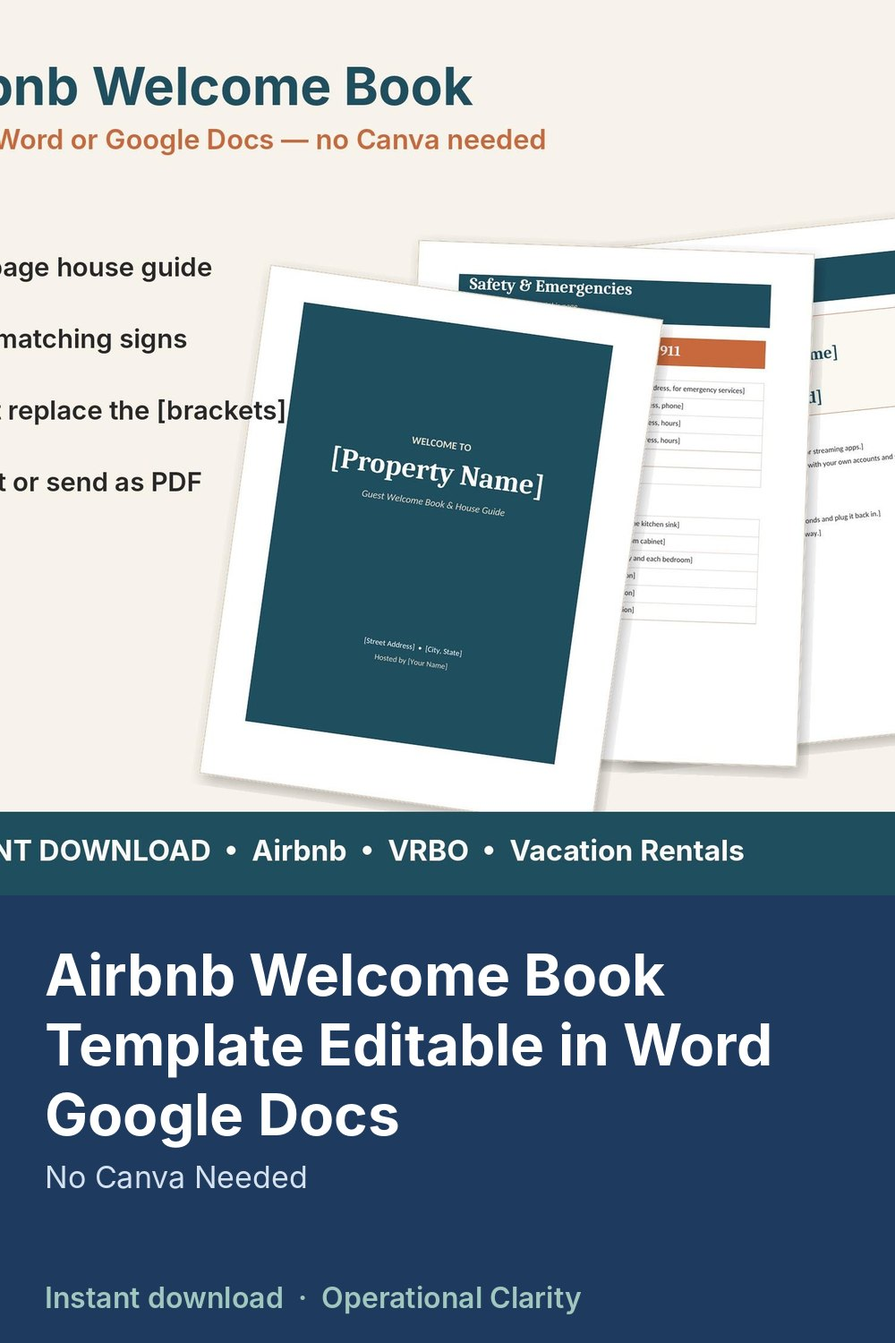
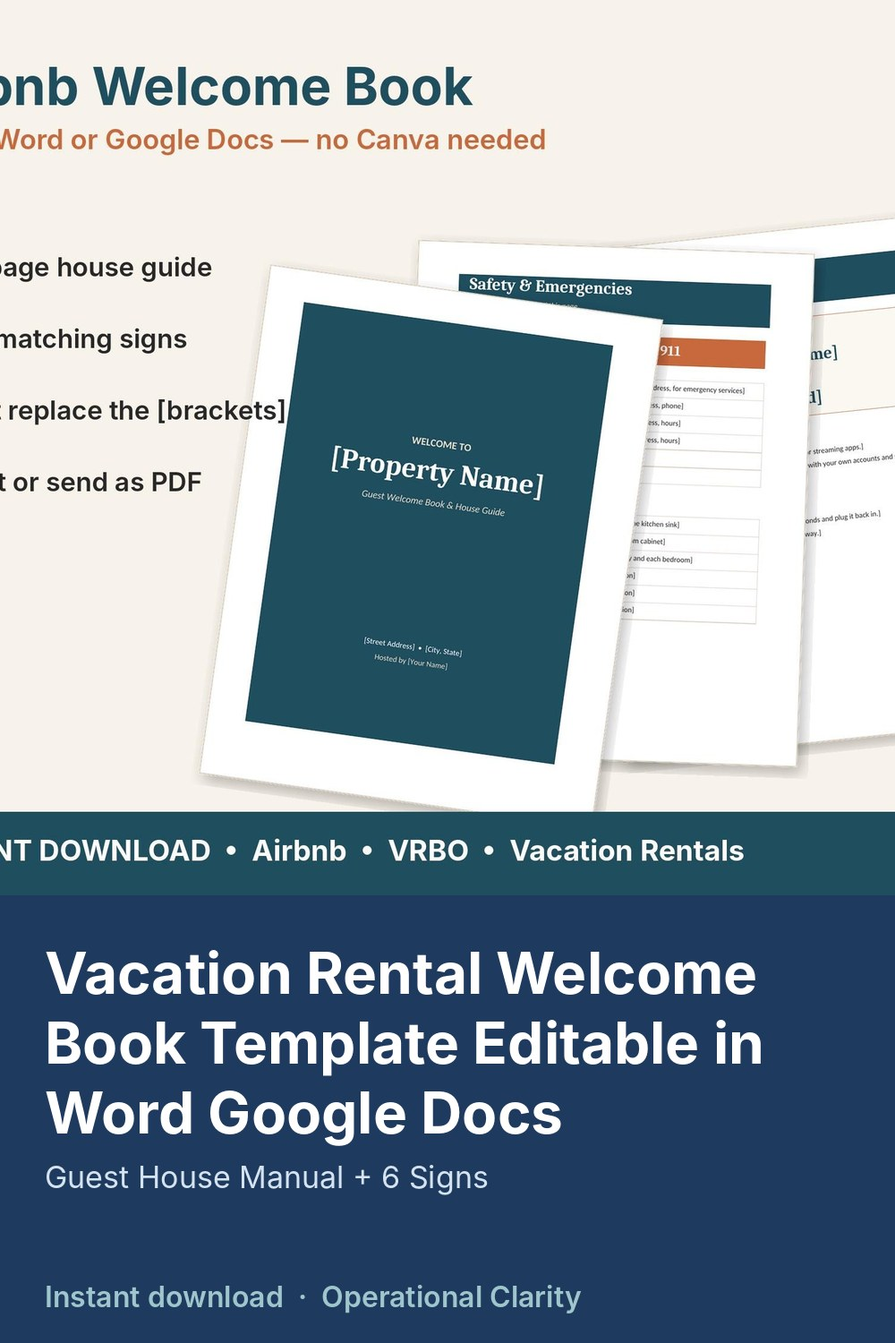
OPTIMIZE 11/10: trademark cleanup, re-render pin for retitled 4594598019 (Vacation Rental Welcome Book); refresh feed
Claude-Session: https://claude.ai/code/session_01DNMp1qHdJLzhWbKsZHTYBr

diff --git a/index.html b/index.html
@@ -7,6 +7,6 @@
 <div class="card"><h2><a href="recipe-cost-calculator.html">Recipe Cost Calculator</a></h2><p>Cost per batch, cost per serving and a suggested price for baked goods.</p></div>
 <div class="card"><h2><a href="paycheck-budget-calculator.html">Paycheck Budget Calculator</a></h2><p>Split bills across paychecks and see what is left from each one.</p></div>
 <div class="card"><h2><a href="landed-cost-calculator.html">Landed Cost Calculator</a></h2><p>True cost per unit after freight, duty and fees.</p></div>
-<h2 id="templates">Spreadsheet & Document Templates</h2><ul><li><a href="p/4595349035.html">2027 Planner Digital &amp; Printable</a></li><li><a href="p/4594598019.html">Airbnb Welcome Book Template Editable in Word Google Docs</a></li><li><a href="p/4602024296.html">Babysitting Forms Kit</a></li><li><a href="p/4553654453.html">Bakery Business Bundle</a></li><li><a href="p/4596837173.html">Bookkeeping Spreadsheet Small Business</a></li><li><a href="p/4608973473.html">Brow Lamination Forms Kit</a></li><li><a href="p/4554866019.html">Business Budget Spreadsheet</a></li><li><a href="p/4600601073.html">Candle Making Log Spreadsheet + Fragrance Load Calculator</a></li><li><a href="p/4601355308.html">Catering Contract Template Kit</a></li><li><a href="p/4607543295.html">Cleaning Business Forms Kit</a></li><li><a href="p/4598967865.html">Coffee Shop Business Plan Template + Startup &amp; Profit Planner Spreadsheet</a></li><li><a href="p/4602477706.html">Consignment Tracker Spreadsheet + Consignment Agreement</a></li><li><a href="p/4600607420.html">Consulting Contract Template + Statement of Work &amp; Proposal</a></li><li><a href="p/4554878636.html">Contract Tracker Spreadsheet</a></li><li><a href="p/4597002015.html">Cookie Pricing Calculator</a></li><li><a href="p/4601198780.html">Dance Studio Forms Kit</a></li><li><a href="p/4601100164.html">Daycare Menu Planner Spreadsheet + Weekly Menu Template</a></li><li><a href="p/4610492983.html">Dog Grooming Forms Kit</a></li><li><a href="p/4598811066.html">Embroidery Pricing Calculator Spreadsheet</a></li><li><a href="p/4594516468.html">Employee Schedule Template Excel Google Sheets</a></li><li><a href="p/4607276707.html">Esthetician Forms Kit</a></li><li><a href="p/4599677766.html">Event Planner Contract Template + Client Questionnaire &amp; Budget Tracker</a></li><li><a href="p/4599435344.html">Florist Order Form Template + Wedding Consultation Form &amp; Flower Pricing Calculator</a></li><li><a href="p/4602913827.html">Food Cost Bundle</a></li><li><a href="p/4597499808.html">Food Truck Business Plan Template + Startup &amp; Profit Planner Spreadsheet</a></li><li><a href="p/4602392090.html">Freelance Writer Contract Template Kit</a></li><li><a href="p/4601783746.html">Graphic Design Contract Template Kit</a></li><li><a href="p/4611234615.html">Hair Extension Forms Kit</a></li><li><a href="p/4597022350.html">Home Daycare Starter Kit</a></li><li><a href="p/4601273740.html">Horse Boarding Contract Kit</a></li><li><a href="p/4552565761.html">Ingredient Cost Comparison Sheet</a></li><li><a href="p/4614068822.html">Interior Design Contract Kit</a></li><li><a href="p/4552578072.html">Inventory Count Sheet</a></li><li><a href="p/4554865995.html">Inventory Loss Tracker</a></li><li><a href="p/4553664350.html">Inventory Management Bundle</a></li><li><a href="p/4443844823.html">Inventory Tracker Spreadsheet with Reorder Alerts</a></li><li><a href="p/4602913735.html">Inventory and Ordering Bundle</a></li><li><a href="p/4554878596.html">Landed Cost Calculator Spreadsheet</a></li><li><a href="p/4602544610.html">Landscaping Contract Template Kit</a></li><li><a href="p/4606330823.html">Lash Tech Forms Kit</a></li><li><a href="p/4608245532.html">Makeup Artist Contract Kit</a></li><li><a href="p/4598084241.html">Massage Intake Form Template + SOAP Notes &amp; Client Tracker Spreadsheet</a></li><li><a href="p/4611943162.html">Microblading Consent Form Kit</a></li><li><a href="p/4601646939.html">Mobile Bartending Contract Template Kit</a></li><li><a href="p/4558377143.html">Monthly Profit and Loss Dashboard Template</a></li><li><a href="p/4554866001.html">Multi Location Inventory Tracker</a></li><li><a href="p/4602844224.html">Nail Tech Forms Kit</a></li><li><a href="p/4601947594.html">Nanny Contract Template Kit</a></li><li><a href="p/4598251079.html">Notary Log Printable, Notary Journal 150 Entries, Notary Record Book + Business Kit, Fee Sheet, Loan Signing Checklist &amp; Mileage Tracker</a></li><li><a href="p/4594847811.html">Paycheck Budget Planner Spreadsheet</a></li><li><a href="p/4599761870.html">Personal Trainer Forms + Client Tracker</a></li><li><a href="p/4598178519.html">Pet Sitting Contract Template + Pet Care Sheet &amp; Booking Invoice Tracker</a></li><li><a href="p/4612559974.html">Photo Booth Contract Kit</a></li><li><a href="p/4597992636.html">Photography Client Questionnaire Templates + Pricing Calculator &amp; Booking Tracker</a></li><li><a href="p/4599831777.html">Piano Lesson Tracker + Practice Assignment Sheet &amp; Studio Policy</a></li><li><a href="p/4594208500.html">Print on Demand Profit Tracker Spreadsheet</a></li><li><a href="p/4554878680.html">Product Cost Calculator</a></li><li><a href="p/4603480063.html">Purchase Order + Inventory Dashboard</a></li><li><a href="p/4552565751.html">Purchase Order Approval Tracker</a></li><li><a href="p/4430807339.html">Purchase Order Tracker Spreadsheet &amp; Receiving Log</a></li><li><a href="p/4552578064.html">Purchasing SOP Templates</a></li><li><a href="p/4553664356.html">Purchasing Templates Bundle</a></li><li><a href="p/4554878614.html">Quote Comparison Spreadsheet</a></li><li><a href="p/4562652240.html">Recipe Cost Calculator Google Sheets Excel</a></li><li><a href="p/4552578048.html">Reorder Point Calculator</a></li><li><a href="p/4600974020.html">Restaurant Inventory Sheet + Food Cost Calculator</a></li><li><a href="p/4604903580.html">Restaurant Purchasing Bundle</a></li><li><a href="p/4604185746.html">Retail Shop Bundle</a></li><li><a href="p/4554878660.html">Returns Tracker Spreadsheet</a></li><li><a href="p/4554878628.html">Sales Forecast Spreadsheet</a></li><li><a href="p/4597001937.html">Salon Booth Rental Agreement Template</a></li><li><a href="p/4561265217.html">Simple Inventory Tracker Spreadsheet</a></li><li><a href="p/4605653122.html">Small Business Bookkeeping Dashboard</a></li><li><a href="p/4553654601.html">Small Business Operations Bundle</a></li><li><a href="p/4598888813.html">Soap Making Log Spreadsheet + Cost per Bar Calculator</a></li><li><a href="p/4598679324.html">Social Media Manager Contract Template + Client Onboarding &amp; Pricing Calculator</a></li><li><a href="p/4609739239.html">Spray Tan Forms Kit</a></li><li><a href="p/4552578060.html">Supplier Price Tracker</a></li><li><a href="p/4552578052.html">Supplier Tracker Spreadsheet</a></li><li><a href="p/4602618784.html">Tattoo Consent Form Kit</a></li><li><a href="p/4596131544.html">Tax Deduction Tracker Spreadsheet</a></li><li><a href="p/4601852361.html">Tutoring Contract Template Kit</a></li><li><a href="p/4552565827.html">Vendor Onboarding Checklist</a></li><li><a href="p/4599059861.html">Virtual Assistant Contract Template + Client Onboarding &amp; Retainer Time Tracker</a></li><li><a href="p/4554865969.html">Warehouse Spreadsheet</a></li><li><a href="p/4602285754.html">Web Design Contract Template Kit</a></li><li><a href="p/4598332795.html">Wholesale Order Form Template, Editable Wholesale Price List &amp; Order Tracker Spreadsheet, Wholesale Terms, Buyer Application, Excel Word</a></li><li><a href="p/4561283977.html">Wholesale Price List Template Excel Google Sheets</a></li></ul>
+<h2 id="templates">Spreadsheet & Document Templates</h2><ul><li><a href="p/4595349035.html">2027 Planner Digital &amp; Printable</a></li><li><a href="p/4602024296.html">Babysitting Forms Kit</a></li><li><a href="p/4553654453.html">Bakery Business Bundle</a></li><li><a href="p/4596837173.html">Bookkeeping Spreadsheet Small Business</a></li><li><a href="p/4608973473.html">Brow Lamination Forms Kit</a></li><li><a href="p/4554866019.html">Business Budget Spreadsheet</a></li><li><a href="p/4600601073.html">Candle Making Log Spreadsheet + Fragrance Load Calculator</a></li><li><a href="p/4601355308.html">Catering Contract Template Kit</a></li><li><a href="p/4607543295.html">Cleaning Business Forms Kit</a></li><li><a href="p/4598967865.html">Coffee Shop Business Plan Template + Startup &amp; Profit Planner Spreadsheet</a></li><li><a href="p/4602477706.html">Consignment Tracker Spreadsheet + Consignment Agreement</a></li><li><a href="p/4600607420.html">Consulting Contract Template + Statement of Work &amp; Proposal</a></li><li><a href="p/4554878636.html">Contract Tracker Spreadsheet</a></li><li><a href="p/4597002015.html">Cookie Pricing Calculator</a></li><li><a href="p/4601198780.html">Dance Studio Forms Kit</a></li><li><a href="p/4601100164.html">Daycare Menu Planner Spreadsheet + Weekly Menu Template</a></li><li><a href="p/4610492983.html">Dog Grooming Forms Kit</a></li><li><a href="p/4598811066.html">Embroidery Pricing Calculator Spreadsheet</a></li><li><a href="p/4594516468.html">Employee Schedule Template Excel Google Sheets</a></li><li><a href="p/4607276707.html">Esthetician Forms Kit</a></li><li><a href="p/4599677766.html">Event Planner Contract Template + Client Questionnaire &amp; Budget Tracker</a></li><li><a href="p/4599435344.html">Florist Order Form Template + Wedding Consultation Form &amp; Flower Pricing Calculator</a></li><li><a href="p/4602913827.html">Food Cost Bundle</a></li><li><a href="p/4597499808.html">Food Truck Business Plan Template + Startup &amp; Profit Planner Spreadsheet</a></li><li><a href="p/4602392090.html">Freelance Writer Contract Template Kit</a></li><li><a href="p/4601783746.html">Graphic Design Contract Template Kit</a></li><li><a href="p/4611234615.html">Hair Extension Forms Kit</a></li><li><a href="p/4597022350.html">Home Daycare Starter Kit</a></li><li><a href="p/4601273740.html">Horse Boarding Contract Kit</a></li><li><a href="p/4552565761.html">Ingredient Cost Comparison Sheet</a></li><li><a href="p/4614068822.html">Interior Design Contract Kit</a></li><li><a href="p/4552578072.html">Inventory Count Sheet</a></li><li><a href="p/4554865995.html">Inventory Loss Tracker</a></li><li><a href="p/4553664350.html">Inventory Management Bundle</a></li><li><a href="p/4443844823.html">Inventory Tracker Spreadsheet with Reorder Alerts</a></li><li><a href="p/4602913735.html">Inventory and Ordering Bundle</a></li><li><a href="p/4554878596.html">Landed Cost Calculator Spreadsheet</a></li><li><a href="p/4602544610.html">Landscaping Contract Template Kit</a></li><li><a href="p/4606330823.html">Lash Tech Forms Kit</a></li><li><a href="p/4608245532.html">Makeup Artist Contract Kit</a></li><li><a href="p/4598084241.html">Massage Intake Form Template + SOAP Notes &amp; Client Tracker Spreadsheet</a></li><li><a href="p/4611943162.html">Microblading Consent Form Kit</a></li><li><a href="p/4601646939.html">Mobile Bartending Contract Template Kit</a></li><li><a href="p/4558377143.html">Monthly Profit and Loss Dashboard Template</a></li><li><a href="p/4554866001.html">Multi Location Inventory Tracker</a></li><li><a href="p/4602844224.html">Nail Tech Forms Kit</a></li><li><a href="p/4601947594.html">Nanny Contract Template Kit</a></li><li><a href="p/4598251079.html">Notary Log Printable, Notary Journal 150 Entries, Notary Record Book + Business Kit, Fee Sheet, Loan Signing Checklist &amp; Mileage Tracker</a></li><li><a href="p/4594847811.html">Paycheck Budget Planner Spreadsheet</a></li><li><a href="p/4599761870.html">Personal Trainer Forms + Client Tracker</a></li><li><a href="p/4598178519.html">Pet Sitting Contract Template + Pet Care Sheet &amp; Booking Invoice Tracker</a></li><li><a href="p/4612559974.html">Photo Booth Contract Kit</a></li><li><a href="p/4597992636.html">Photography Client Questionnaire Templates + Pricing Calculator &amp; Booking Tracker</a></li><li><a href="p/4599831777.html">Piano Lesson Tracker + Practice Assignment Sheet &amp; Studio Policy</a></li><li><a href="p/4594208500.html">Print on Demand Profit Tracker Spreadsheet</a></li><li><a href="p/4554878680.html">Product Cost Calculator</a></li><li><a href="p/4603480063.html">Purchase Order + Inventory Dashboard</a></li><li><a href="p/4552565751.html">Purchase Order Approval Tracker</a></li><li><a href="p/4430807339.html">Purchase Order Tracker Spreadsheet &amp; Receiving Log</a></li><li><a href="p/4552578064.html">Purchasing SOP Templates</a></li><li><a href="p/4553664356.html">Purchasing Templates Bundle</a></li><li><a href="p/4554878614.html">Quote Comparison Spreadsheet</a></li><li><a href="p/4562652240.html">Recipe Cost Calculator Google Sheets Excel</a></li><li><a href="p/4552578048.html">Reorder Point Calculator</a></li><li><a href="p/4600974020.html">Restaurant Inventory Sheet + Food Cost Calculator</a></li><li><a href="p/4604903580.html">Restaurant Purchasing Bundle</a></li><li><a href="p/4604185746.html">Retail Shop Bundle</a></li><li><a href="p/4554878660.html">Returns Tracker Spreadsheet</a></li><li><a href="p/4554878628.html">Sales Forecast Spreadsheet</a></li><li><a href="p/4597001937.html">Salon Booth Rental Agreement Template</a></li><li><a href="p/4561265217.html">Simple Inventory Tracker Spreadsheet</a></li><li><a href="p/4605653122.html">Small Business Bookkeeping Dashboard</a></li><li><a href="p/4553654601.html">Small Business Operations Bundle</a></li><li><a href="p/4598888813.html">Soap Making Log Spreadsheet + Cost per Bar Calculator</a></li><li><a href="p/4598679324.html">Social Media Manager Contract Template + Client Onboarding &amp; Pricing Calculator</a></li><li><a href="p/4609739239.html">Spray Tan Forms Kit</a></li><li><a href="p/4552578060.html">Supplier Price Tracker</a></li><li><a href="p/4552578052.html">Supplier Tracker Spreadsheet</a></li><li><a href="p/4602618784.html">Tattoo Consent Form Kit</a></li><li><a href="p/4596131544.html">Tax Deduction Tracker Spreadsheet</a></li><li><a href="p/4601852361.html">Tutoring Contract Template Kit</a></li><li><a href="p/4594598019.html">Vacation Rental Welcome Book Template Editable in Word Google Docs</a></li><li><a href="p/4552565827.html">Vendor Onboarding Checklist</a></li><li><a href="p/4599059861.html">Virtual Assistant Contract Template + Client Onboarding &amp; Retainer Time Tracker</a></li><li><a href="p/4554865969.html">Warehouse Spreadsheet</a></li><li><a href="p/4602285754.html">Web Design Contract Template Kit</a></li><li><a href="p/4598332795.html">Wholesale Order Form Template, Editable Wholesale Price List &amp; Order Tracker Spreadsheet, Wholesale Terms, Buyer Application, Excel Word</a></li><li><a href="p/4561283977.html">Wholesale Price List Template Excel Google Sheets</a></li></ul>
 <p>Want the full spreadsheet versions? <a class="cta" href="https://www.etsy.com/shop/Operationalclarity">Browse all templates on Etsy</a></p>
 </main><footer>Free tools by <a href="https://www.etsy.com/shop/Operationalclarity">Operational Clarity</a>. Estimates only, not financial or tax advice. Not affiliated with Etsy.</footer></body></html>

diff --git a/p/4594598019.html b/p/4594598019.html
@@ -1,8 +1,8 @@
 <!doctype html><html lang="en"><head><meta charset="utf-8"><meta name="viewport" content="width=device-width,initial-scale=1">
-<title>Airbnb Welcome Book Template Editable in Word Google Docs | Operational Clarity</title><meta name="description" content="AIRBNB WELCOME BOOK TEMPLATE | Editable in Word or Google Docs | No Canva Needed | + 6 Matching Signs A complete guest welcome book and house manual for yo">
+<title>Vacation Rental Welcome Book Template Editable in Word Google Docs | Operational Clarity</title><meta name="description" content="VACATION RENTAL WELCOME BOOK TEMPLATE | Editable in Word or Google Docs | No Design App Needed | + 6 Matching Signs A complete guest welcome book and house">
 <link rel="canonical" href="https://hgmanagementusa-bot.github.io/operationalclarity-tools/p/4594598019.html"><link rel="stylesheet" href="../style.css">
-<meta property="og:title" content="Airbnb Welcome Book Template Editable in Word Google Docs"><meta property="og:image" content="https://hgmanagementusa-bot.github.io/operationalclarity-tools/pins/4594598019.jpg"><meta property="og:type" content="product"></head>
+<meta property="og:title" content="Vacation Rental Welcome Book Template Editable in Word Google Docs"><meta property="og:image" content="https://hgmanagementusa-bot.github.io/operationalclarity-tools/pins/4594598019.jpg"><meta property="og:type" content="product"></head>
 <body><header><a href="../index.html">Operational Clarity · Small Business Templates</a></header><main>
-<h1>Airbnb Welcome Book Template Editable in Word Google Docs</h1><img src="../pins/4594598019.jpg" alt="Airbnb Welcome Book Template Editable in Word Google Docs" style="max-width:100%;height:auto;border-radius:8px">
-<p><a class="cta" href="https://www.etsy.com/listing/4594598019/airbnb-welcome-book-template-editable-in">Get it on Etsy</a></p><p>AIRBNB WELCOME BOOK TEMPLATE | Editable in Word or Google Docs | No Canva Needed | + 6 Matching Signs</p><p>A complete guest welcome book and house manual for your Airbnb, VRBO or vacation rental. Edit it in Microsoft Word or Google Docs. No Canva account, no design skills. Just type over the [bracketed] examples, then print it or save as a PDF to send to guests.</p><p>15 PAGES<br>1. Cover<br>2. Welcome letter + host contact<br>3. Contents<br>4. Check-in &amp; check-out (times, door code, parking)<br>5. Wi-Fi &amp; entertainment<br>6. House rules<br>7. Around the house (thermostat, laundry, trash, linens)<br>8. Kitchen guide<br>9. Safety &amp; emergencies (911, hospital, extinguisher, shut-offs)<br>10. Local restaurants<br>11. Things to do<br>12. Groceries &amp; essentials<br>13. Checkout checklist<br>14. FAQ<br>15. Thank you + review request</p><p>BONUS: 6 MATCHING FULL-PAGE SIGNS<br>Wi-Fi • Welcome • Checkout Checklist • House Rules • Trash &amp; Recycling • Thank You / Review</p><p>WHAT YOU GET (3 files)<br>• Airbnb_Welcome_Book_Editable.docx (15 pages)<br>• Airbnb_Signs_Editable.docx (6 signs)<br>• Airbnb_Welcome_Book_Preview.pdf (see every page before editing)</p><p>HOW TO EDIT<br>• Word: open the .docx and type.<br>• Google Docs: upload the .docx to Google Drive, then Open with Google Docs.<br>• Also opens in Apple Pages and LibreOffice. Layout may shift slightly in apps other than Word.<br>• Change any text, color or font. Add your own photos anywhere.<br>• US Letter size (8.5 x 11 in).</p><p>GOOD TO KNOW<br>• All example text is placeholder. Replace it with your property&#x27;s details.<br>• Not affiliated with Airbnb or VRBO.<br>• This is a digital download. No physical item will be shipped.<br>• For use with your own rental properties. No reselling or sharing of the files.</p><p><a class="cta" href="https://www.etsy.com/listing/4594598019/airbnb-welcome-book-template-editable-in">Get it on Etsy</a></p>
+<h1>Vacation Rental Welcome Book Template Editable in Word Google Docs</h1><img src="../pins/4594598019.jpg" alt="Vacation Rental Welcome Book Template Editable in Word Google Docs" style="max-width:100%;height:auto;border-radius:8px">
+<p><a class="cta" href="https://www.etsy.com/listing/4594598019/airbnb-welcome-book-template-editable-in">Get it on Etsy</a></p><p>VACATION RENTAL WELCOME BOOK TEMPLATE | Editable in Word or Google Docs | No Design App Needed | + 6 Matching Signs</p><p>A complete guest welcome book and house manual for your vacation rental, cabin, beach house or short term rental. Edit it in Microsoft Word or Google Docs. No design app account, no design skills. Just type over the [bracketed] examples, then print it or save as a PDF to send to guests.</p><p>15 PAGES<br>1. Cover<br>2. Welcome letter + host contact<br>3. Contents<br>4. Check-in &amp; check-out (times, door code, parking)<br>5. Wi-Fi &amp; entertainment<br>6. House rules<br>7. Around the house (thermostat, laundry, trash, linens)<br>8. Kitchen guide<br>9. Safety &amp; emergencies (911, hospital, extinguisher, shut-offs)<br>10. Local restaurants<br>11. Things to do<br>12. Groceries &amp; essentials<br>13. Checkout checklist<br>14. FAQ<br>15. Thank you + review request</p><p>BONUS: 6 MATCHING FULL-PAGE SIGNS<br>Wi-Fi • Welcome • Checkout Checklist • House Rules • Trash &amp; Recycling • Thank You / Review</p><p>WHAT YOU GET (3 files)<br>• Welcome book, editable .docx (15 pages)<br>• Matching signs, editable .docx (6 signs)<br>• Preview PDF (see every page before editing)</p><p>HOW TO EDIT<br>• Word: open the .docx and type.<br>• Google Docs: upload the .docx to Google Drive, then Open with Google Docs.<br>• Also opens in Apple Pages and LibreOffice. Layout may shift slightly in apps other than Word.<br>• Change any text, color or font. Add your own photos anywhere.<br>• US Letter size (8.5 x 11 in).</p><p>GOOD TO KNOW<br>• All example text is placeholder. Replace it with your property&#x27;s details.<br>• Not affiliated with any booking platform.<br>• This is a digital download. No physical item will be shipped.<br>• For use with your own rental properties. No reselling or sharing of the files.</p><p><a class="cta" href="https://www.etsy.com/listing/4594598019/airbnb-welcome-book-template-editable-in">Get it on Etsy</a></p>
 </main><footer>By <a href="https://www.etsy.com/shop/Operationalclarity">Operational Clarity</a>. Not affiliated with Etsy.</footer></body></html>

diff --git a/p/4594208500.html b/p/4594208500.html
@@ -1,8 +1,8 @@
 <!doctype html><html lang="en"><head><meta charset="utf-8"><meta name="viewport" content="width=device-width,initial-scale=1">
-<title>Print on Demand Profit Tracker Spreadsheet | Operational Clarity</title><meta name="description" content="ETSY PRINT-ON-DEMAND PROFIT TRACKER | Excel + Google Sheets | Instant Download Stop guessing. See exactly what you keep from every Printify, Printful or Ge">
+<title>Print on Demand Profit Tracker Spreadsheet | Operational Clarity</title><meta name="description" content="PRINT-ON-DEMAND PROFIT TRACKER FOR ONLINE SELLERS | Excel + Google Sheets | Instant Download Stop guessing. See exactly what you keep from every Printify, ">
 <link rel="canonical" href="https://hgmanagementusa-bot.github.io/operationalclarity-tools/p/4594208500.html"><link rel="stylesheet" href="../style.css">
 <meta property="og:title" content="Print on Demand Profit Tracker Spreadsheet"><meta property="og:image" content="https://hgmanagementusa-bot.github.io/operationalclarity-tools/pins/4594208500.jpg"><meta property="og:type" content="product"></head>
 <body><header><a href="../index.html">Operational Clarity · Small Business Templates</a></header><main>
 <h1>Print on Demand Profit Tracker Spreadsheet</h1><img src="../pins/4594208500.jpg" alt="Print on Demand Profit Tracker Spreadsheet" style="max-width:100%;height:auto;border-radius:8px">
-<p><a class="cta" href="https://www.etsy.com/listing/4594208500/print-on-demand-profit-tracker">Get it on Etsy</a></p><p>ETSY PRINT-ON-DEMAND PROFIT TRACKER | Excel + Google Sheets | Instant Download</p><p>Stop guessing. See exactly what you keep from every Printify, Printful or Gelato sale after Etsy fees, POD base cost and shipping.</p><p>WHAT IT DOES<br>• Products &amp; Pricing: enter base cost, POD shipping and your price. Etsy fees, net profit, margin, break-even price and the price you need for your target margin calculate automatically.<br>• Low-margin and money-losing products are flagged in color.<br>• Sales Log: pick the product from a dropdown, enter quantity, price and discount. POD cost, Etsy fees (including Offsite Ads orders) and net profit fill in per order.<br>• Expenses: ads, samples, mockups, subscriptions.<br>• Dashboard: revenue, fees, POD costs, expenses, net profit and margin for every month, with a monthly profit goal tracker and chart.<br>• Settings: all fee rates are editable, so it stays accurate for your country and if fees change.</p><p>WHAT YOU GET<br>• 1 Excel workbook (.xlsx) with 6 tabs: START HERE, DASHBOARD, SETTINGS, PRODUCTS, SALES LOG, EXPENSES<br>• Room for 100 products, 1,000 orders and 500 expenses<br>• Example data included so you can see how it works (just overwrite it)</p><p>COMPATIBILITY<br>Works in Microsoft Excel. For Google Sheets, upload the file to Google Drive and open it with Google Sheets.</p><p>GOOD TO KNOW<br>• Fee rates in SETTINGS are starting examples. Check the current rates shown in your own Etsy account and edit them if needed.<br>• Works for any POD provider. Not affiliated with Etsy, Printify, Printful or Gelato.<br>• This is a digital download. No physical item will be shipped.<br>• Personal / single-business use. No reselling or sharing of the file.</p><p><a class="cta" href="https://www.etsy.com/listing/4594208500/print-on-demand-profit-tracker">Get it on Etsy</a></p>
+<p><a class="cta" href="https://www.etsy.com/listing/4594208500/print-on-demand-profit-tracker">Get it on Etsy</a></p><p>PRINT-ON-DEMAND PROFIT TRACKER FOR ONLINE SELLERS | Excel + Google Sheets | Instant Download</p><p>Stop guessing. See exactly what you keep from every Printify, Printful or Gelato sale after Etsy fees, POD base cost and shipping.</p><p>WHAT IT DOES<br>• Products &amp; Pricing: enter base cost, POD shipping and your price. Etsy fees, net profit, margin, break-even price and the price you need for your target margin calculate automatically.<br>• Low-margin and money-losing products are flagged in color.<br>• Sales Log: pick the product from a dropdown, enter quantity, price and discount. POD cost, Etsy fees (including Offsite Ads orders) and net profit fill in per order.<br>• Expenses: ads, samples, mockups, subscriptions.<br>• Dashboard: revenue, fees, POD costs, expenses, net profit and margin for every month, with a monthly profit goal tracker and chart.<br>• Settings: all fee rates are editable, so it stays accurate for your country and if fees change.</p><p>WHAT YOU GET<br>• 1 Excel workbook (.xlsx) with 6 tabs: START HERE, DASHBOARD, SETTINGS, PRODUCTS, SALES LOG, EXPENSES<br>• Room for 100 products, 1,000 orders and 500 expenses<br>• Example data included so you can see how it works (just overwrite it)</p><p>COMPATIBILITY<br>Works in Microsoft Excel. For Google Sheets, upload the file to Google Drive and open it with Google Sheets.</p><p>GOOD TO KNOW<br>• Fee rates in SETTINGS are starting examples. Check the current rates shown in your own Etsy account and edit them if needed.<br>• Works for any POD provider. Not affiliated with Etsy, Printify, Printful or Gelato.<br>• This is a digital download. No physical item will be shipped.<br>• Personal / single-business use. No reselling or sharing of the file.</p><p><a class="cta" href="https://www.etsy.com/listing/4594208500/print-on-demand-profit-tracker">Get it on Etsy</a></p>
 </main><footer>By <a href="https://www.etsy.com/shop/Operationalclarity">Operational Clarity</a>. Not affiliated with Etsy.</footer></body></html>

diff --git a/p/4558377143.html b/p/4558377143.html
@@ -1,8 +1,8 @@
 <!doctype html><html lang="en"><head><meta charset="utf-8"><meta name="viewport" content="width=device-width,initial-scale=1">
-<title>Monthly Profit and Loss Dashboard Template | Operational Clarity</title><meta name="description" content="QUICKBOOKS TRANSACTION DASHBOARD (INSTANT DOWNLOAD) Turn a simple transaction export into a clean monthly Income vs Expense dashboard-automatically. See yo">
+<title>Monthly Profit and Loss Dashboard Template | Operational Clarity</title><meta name="description" content="MONTHLY PROFIT AND LOSS DASHBOARD (INSTANT DOWNLOAD) Turn a simple transaction export into a clean monthly Income vs Expense dashboard-automatically. See y">
 <link rel="canonical" href="https://hgmanagementusa-bot.github.io/operationalclarity-tools/p/4558377143.html"><link rel="stylesheet" href="../style.css">
 <meta property="og:title" content="Monthly Profit and Loss Dashboard Template"><meta property="og:image" content="https://hgmanagementusa-bot.github.io/operationalclarity-tools/pins/4558377143.jpg"><meta property="og:type" content="product"></head>
 <body><header><a href="../index.html">Operational Clarity · Small Business Templates</a></header><main>
 <h1>Monthly Profit and Loss Dashboard Template</h1><img src="../pins/4558377143.jpg" alt="Monthly Profit and Loss Dashboard Template" style="max-width:100%;height:auto;border-radius:8px">
-<p><a class="cta" href="https://www.etsy.com/listing/4558377143/quickbooks-dashboard-template-monthly">Get it on Etsy</a></p><p>QUICKBOOKS TRANSACTION DASHBOARD (INSTANT DOWNLOAD)</p><p>Turn a simple transaction export into a clean monthly Income vs Expense dashboard-automatically. See your profit margin, monthly trends, and top expense categories at a glance, without touching a single pivot table.</p><p>Best for: small business owners, freelancers, bookkeepers-anyone who wants a fast visual read on their QuickBooks numbers without learning QuickBooks&#x27; built-in reports.</p><p>What this system does (built into the file):<br>- Turns transaction-level data into a monthly Income vs Expense summary<br>- Calculates Net Profit and Profit Margin automatically<br>- Ranks your top expense categories, highest to lowest<br>- Updates automatically as you add more transactions</p><p>Includes (1 file):<br>QuickBooks Transaction Dashboard spreadsheet (.XLSX)</p><p>How to use (inside the file):<br>Open the START HERE tab for the exact setup steps:<br>1. Export your transactions (Date, Category, Type, Amount)<br>2. Paste into the TRANSACTIONS tab<br>3. Go to the DASHBOARD tab - everything updates automatically</p><p>Compatibility:<br>Works in Excel (.xlsx). You can also upload the file to Google Drive and use it in Google Sheets. All formulas are standard SUMIF/SUMIFS - no Google-only functions, so nothing breaks when opened in Excel.</p><p>License:<br>Personal / single-business use only. No reselling, sharing, or redistribution (including modified versions).</p><p>Digital item notice:<br>This is a digital download. No physical product will be shipped.</p><p><a class="cta" href="https://www.etsy.com/listing/4558377143/quickbooks-dashboard-template-monthly">Get it on Etsy</a></p>
+<p><a class="cta" href="https://www.etsy.com/listing/4558377143/quickbooks-dashboard-template-monthly">Get it on Etsy</a></p><p>MONTHLY PROFIT AND LOSS DASHBOARD (INSTANT DOWNLOAD)</p><p>Turn a simple transaction export into a clean monthly Income vs Expense dashboard-automatically. See your profit margin, monthly trends, and top expense categories at a glance, without touching a single pivot table.</p><p>Best for: small business owners, freelancers, bookkeepers-anyone who wants a fast visual read on their accounting numbers without learning their software&#x27;s built-in reports. Compatible with QuickBooks CSV exports and other accounting exports with Date, Category, Type and Amount columns.</p><p>What this system does (built into the file):<br>- Turns transaction-level data into a monthly Income vs Expense summary<br>- Calculates Net Profit and Profit Margin automatically<br>- Ranks your top expense categories, highest to lowest<br>- Updates automatically as you add more transactions</p><p>Includes (1 file):<br>Transaction Dashboard spreadsheet (.XLSX)</p><p>How to use (inside the file):<br>Open the START HERE tab for the exact setup steps:<br>1. Export your transactions (Date, Category, Type, Amount)<br>2. Paste into the TRANSACTIONS tab<br>3. Go to the DASHBOARD tab - everything updates automatically</p><p>Compatibility:<br>Works in Excel (.xlsx). You can also upload the file to Google Drive and use it in Google Sheets. All formulas are standard SUMIF/SUMIFS - no Google-only functions, so nothing breaks when opened in Excel.</p><p>License:<br>Personal / single-business use only. No reselling, sharing, or redistribution (including modified versions).</p><p>Digital item notice:<br>This is a digital download. No physical product will be shipped.</p><p><a class="cta" href="https://www.etsy.com/listing/4558377143/quickbooks-dashboard-template-monthly">Get it on Etsy</a></p>
 </main><footer>By <a href="https://www.etsy.com/shop/Operationalclarity">Operational Clarity</a>. Not affiliated with Etsy.</footer></body></html>
